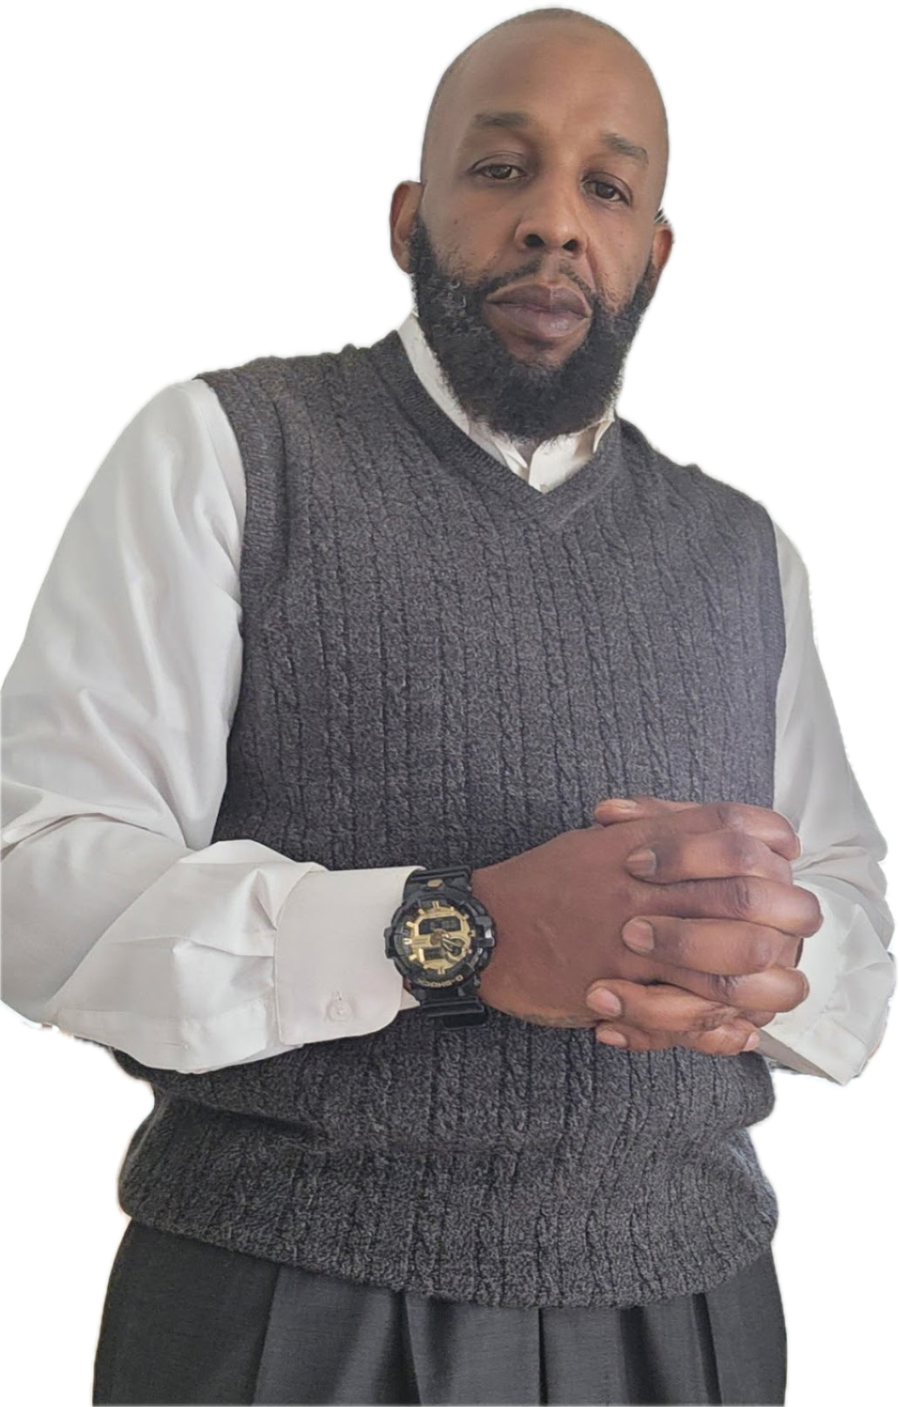
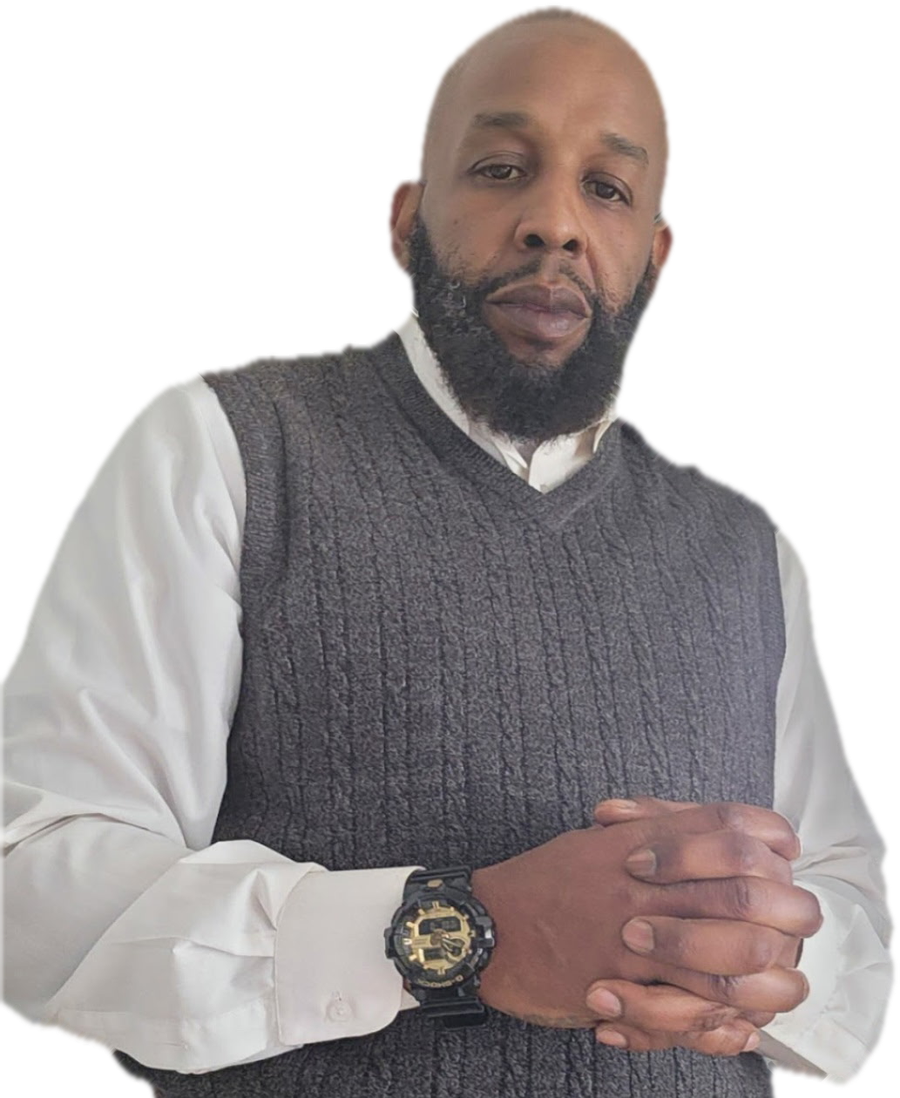
Clean up author cutout edges and fit portrait in frame
Claude-Session: https://claude.ai/code/session_01DJGUprk7X9fiRTMqbdsdPb

diff --git a/css/style.css b/css/style.css
@@ -275,7 +275,7 @@ h1, h2, h3 { font-weight: 600; letter-spacing: -0.015em; line-height: 1.07; text
 .portrait-stage {
   position: sticky;
   top: 80px;
-  aspect-ratio: 4 / 5;
+  aspect-ratio: 3 / 4;
   max-width: 100%;
   border-radius: 28px;
   overflow: hidden;
@@ -286,7 +286,9 @@ h1, h2, h3 { font-weight: 600; letter-spacing: -0.015em; line-height: 1.07; text
   align-items: flex-end;
   justify-content: center;
 }
-.portrait-stage img { width: 92%; height: auto; }
+.portrait-stage picture { display: block; width: 100%; }
+/* full width so the photo's cropped arm edge lines up with the frame */
+.portrait-stage img { width: 100%; height: auto; }
 @media (max-width: 760px) {
   .feature.about { grid-template-columns: 1fr; }
   .portrait-stage { position: static; }
